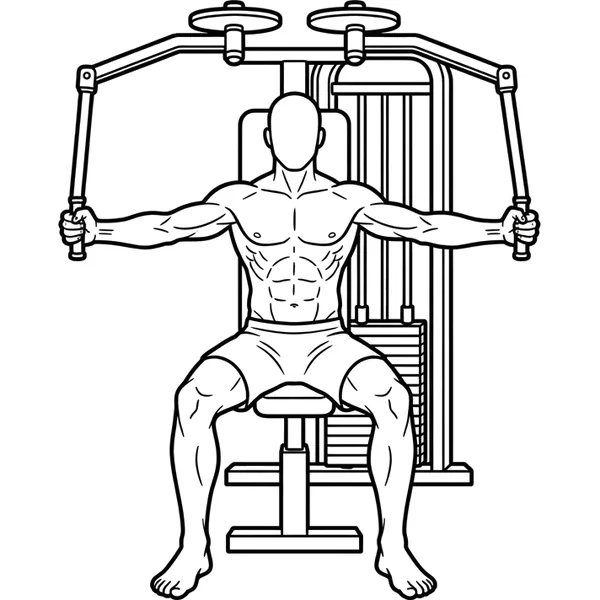
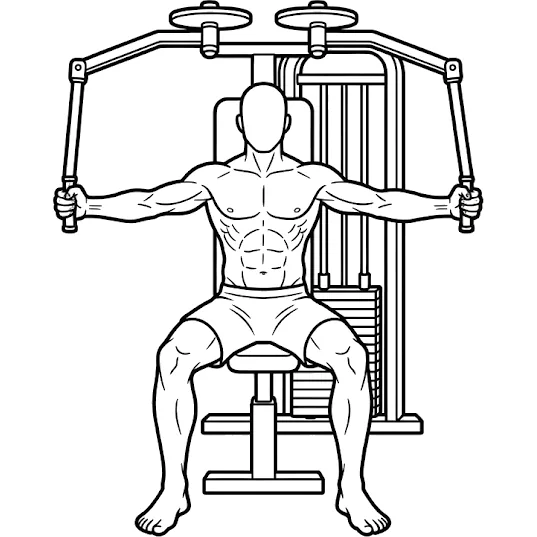
0.60.9: dibujos corregidos segun sus notas (teletransportes, prensa, dominadas, fondos, placas), variantes nuevas en el catalogo

diff --git a/web/js/catalogo.js b/web/js/catalogo.js
@@ -54,6 +54,7 @@ export const CATALOGO = [
   ej('Fondos en paralelas negativos', 'empuje', 'paralelas', ['triceps'], ['pecho', 'hombro'], corporal),
   ej('Press militar', 'empuje', 'barra', ['hombro'], ['triceps', 'trapecio']),
   ej('Press de hombro con mancuernas', 'empuje', 'mancuernas', ['hombro'], ['triceps']),
+  ej('Press de hombro a una mano', 'empuje', 'mancuernas', ['hombro'], ['triceps', 'oblicuos']),
   ej('Press Arnold', 'empuje', 'mancuernas', ['hombro'], ['triceps']),
   ej('Press de hombro en máquina', 'empuje', 'máquina', ['hombro'], ['triceps']),
   ej('Elevaciones laterales', 'empuje', 'mancuernas', ['hombro'], []),
@@ -119,6 +120,7 @@ export const CATALOGO = [
   ej('Prensa de piernas', 'pierna', 'máquina', ['cuadriceps'], ['gluteo']),
   ej('Peso muerto', 'pierna', 'barra', ['isquios', 'gluteo'], ['lumbar', 'trapecio', 'antebrazoFlexor']),
   ej('Peso muerto con mancuernas', 'pierna', 'mancuernas', ['isquios', 'gluteo'], ['lumbar', 'trapecio', 'antebrazoFlexor']),
+  ej('Peso muerto rumano con mancuernas', 'pierna', 'mancuernas', ['isquios'], ['gluteo', 'lumbar']),
   ej('Peso muerto sumo', 'pierna', 'barra', ['gluteo', 'aductores'], ['isquios', 'lumbar', 'cuadriceps']),
   ej('Peso muerto rumano', 'pierna', 'barra', ['isquios'], ['gluteo', 'lumbar']),
   ej('Buenos días', 'pierna', 'barra', ['isquios', 'lumbar'], ['gluteo']),

diff --git a/web/sw.js b/web/sw.js
@@ -7,12 +7,12 @@
 // Solo se ocupa del CÓDIGO de la app. Los datos del usuario nunca pasan por
 // aquí: viven en el dispositivo (IndexedDB) y en su Google Drive.
 
-const VERSION = '0.60.8';
+const VERSION = '0.60.9';
 const CACHE = `entreno-${VERSION}`;
 // Las imágenes van en un almacén aparte que NO se borra al actualizar la app:
 // así se ven sin conexión aunque haya salido una versión nueva.
 // Si cambian las imágenes, se sube el número y los móviles bajan las nuevas.
-const CACHE_IMAGENES = 'entreno-imagenes-18';  // el mismo nombre en app.js (guardarImagenesParaSinConexion)
+const CACHE_IMAGENES = 'entreno-imagenes-19';  // el mismo nombre en app.js (guardarImagenesParaSinConexion)
 
 const ARCHIVOS = [
   './',

diff --git a/web/js/app.js b/web/js/app.js
@@ -236,7 +236,7 @@ async function guardarImagenesParaSinConexion() {
     const capas = Object.entries(MUSCULOS).flatMap(([clave, m]) => m.vistas.map((v) => archivoCapa(clave, v)));
     const cuerpo = ['imagenes/musculos/cuerpo-delante.svg', 'imagenes/musculos/cuerpo-detras.svg'];
     // El mismo nombre que CACHE_IMAGENES en sw.js: si no, el service worker lo borra.
-    const cache = await caches.open('entreno-imagenes-18');
+    const cache = await caches.open('entreno-imagenes-19');
     for (const ruta of [...cuerpo, ...capas, ...mios]) {
       if (!(await cache.match(ruta, { ignoreSearch: true }))) {
         const r = await fetch(ruta).catch(() => null);

diff --git a/web/js/version.js b/web/js/version.js
@@ -1,3 +1,3 @@
 // Versión del código de la app. Se sube en cada publicación y debe coincidir
 // con VERSION en sw.js, que es lo que hace que los móviles se actualicen.
-export const VERSION_APP = '0.60.8';
+export const VERSION_APP = '0.60.9';

diff --git a/herramientas/imagenes_ia.py b/herramientas/imagenes_ia.py
@@ -184,7 +184,24 @@ def sin_suelo(im):
     return im
 
 
-def procesar(origen, modo="pies", espejo=False, solo=False):
+def centrar_en_barra(partes):
+    """Una sola barra de lado a lado: al partir, cada postura se queda con un trozo de distinto largo.
+    Se recorta cada postura a lo mismo a cada lado del centro de la figura, así la barra mide igual."""
+    centros, anchos = [], []
+    for im in partes:
+        tinta = mascara(im, 200)
+        x0, y0, x1, y1 = tinta.getbbox()
+        _, barra_y = ancla(im, "barra")
+        # El cuerpo, por debajo de la barra (la barra cruza de lado a lado y movería el centro).
+        cuerpo = tinta.crop((x0, round(barra_y) + 12, x1, y1)).getbbox()
+        cx = x0 + (cuerpo[0] + cuerpo[2]) / 2
+        centros.append(cx)
+        anchos.append(min(cx, im.width - cx))
+    medio = min(anchos)
+    return [im.crop((round(cx - medio), 0, round(cx + medio), im.height)) for im, cx in zip(partes, centros)]
+
+
+def procesar(origen, modo="pies", espejo=False, solo=False, invertir=False):
     nombre = origen.stem.split("-", 1)[1]
     if origen.stem.startswith("completo-"):
         # Un dibujo hecho por una persona que venía cortado, completado por la IA: va aparte del de la IA.
@@ -197,7 +214,10 @@ def procesar(origen, modo="pies", espejo=False, solo=False):
         if origen.stem.startswith("completo-"):
             # Sin suelo antes de partir: una línea de suelo de lado a lado no deja hueco entre las dos posturas.
             im = sin_suelo(im)
-        inicio, final = (recortar(sin_suelo(x) if origen.stem.startswith("completo-") else x, 0) for x in partir(im))
+        partes = partir(im)
+        if modo == "barra-centrada":
+            partes, modo = centrar_en_barra(partes), "barra"
+        inicio, final = (recortar(sin_suelo(x) if origen.stem.startswith("completo-") else x, 0) for x in partes)
         if solo:
             # Las dos figuras salieron casi iguales (pasa al alternar piernas): basta la primera, quieta.
             quieta(inicio, fija)
@@ -205,6 +225,9 @@ def procesar(origen, modo="pies", espejo=False, solo=False):
         if espejo:
             # La IA dibujó la segunda figura mirando al otro lado: se le da la vuelta.
             final = final.transpose(Image.FLIP_LEFT_RIGHT)
+        if invertir:
+            # Empieza por la postura final (las negativas: arriba y bajar despacio).
+            inicio, final = final, inicio
         animar([inicio, final], SALIDA / f"{nombre}.webp", modo)
         quieta(inicio, fija)
         return nombre, True
@@ -216,7 +239,7 @@ def leer_tabla():
     """De peticiones.json: nombre del dibujo → {"ejercicios": [...], "ancla": ...}."""
     if not PETICIONES.exists():
         return {}
-    return {p["slug"]: {"ejercicios": [p["ejercicio"], *p.get("tambien", [])], "ancla": p.get("ancla", "pies"), "espejo": p.get("espejo", False), "solo": p.get("solo", False), "usar": p.get("usar"), "sinAlias": p.get("sinAlias", False)}
+    return {p["slug"]: {"ejercicios": [p["ejercicio"], *p.get("tambien", [])], "ancla": p.get("ancla", "pies"), "espejo": p.get("espejo", False), "solo": p.get("solo", False), "usar": p.get("usar"), "sinAlias": p.get("sinAlias", False), "invertir": p.get("invertir", False)}
             for p in json.loads(PETICIONES.read_text(encoding="utf8"))}
 
 
@@ -227,12 +250,20 @@ def ejercicios_de(entrada):
     return entrada if isinstance(entrada, list) else entrada.get("ejercicios", [])
 
 
+# Ejercicios que se aguantan quietos: dibujo sin animar (Dan, 22-10-2026: «en estática que no se mueva»).
+QUIETOS = {"Plancha lateral": "imagenes/ejercicios/anim/plancha-lateral-quieta.webp"}
+
+
 # Completados que no se apoyan en el suelo: se encajan por lo que no se mueve (las barras de los fondos).
 ANCLA_COMPLETO = {"fondos-asistidos": "encajar", "fondos-de-triceps-ek": "encajar", "fondos-en-paralelas-negativos": "encajar"}
 
 
 # El dibujo de antes de «Fondos asistidos» se ve como fondos en paralelas: Dan lo quiere para «Fondos de pecho».
-OTRO_DIBUJO = {"Fondos de pecho": "Fondos asistidos"}
+# Y los que eran dos variantes (comparativa del 22-10-2026): el dibujo de antes pasa a la otra variante.
+OTRO_DIBUJO = {"Fondos de pecho": "Fondos asistidos",
+               "Encogimientos de trapecio con barra": "Encogimientos de trapecio",
+               "Press de hombro a una mano": "Press de hombro con mancuernas",
+               "Peso muerto rumano con mancuernas": "Peso muerto con mancuernas"}
 
 
 def hecho_por_persona(datos):
@@ -292,6 +323,9 @@ def apuntar(hechos):
                 ejercicios[ej] = {**{k: v for k, v in datos.items() if k not in ("estatica", "animada")},
                                   "archivo": f"imagenes/ejercicios/ia/{nombre}.webp", "estatica": f"imagenes/ejercicios/ia/{nombre}-quieta.webp",
                                   "animada": animada, "completadoCon": "Gemini" if origen == "gemini" else "ChatGPT"}
+    for ej, archivo in QUIETOS.items():
+        if ej in ejercicios:
+            ejercicios[ej] = {**ejercicios[ej], "archivo": archivo, "estatica": archivo, "animada": False}
     CREDITOS.write_text(json.dumps(creditos, ensure_ascii=False, indent=1), encoding="utf8")
 
 
@@ -313,7 +347,7 @@ def main():
                 # Las dos posturas de un dibujo completado coinciden casi enteras: se encajan donde más líneas cuadran.
                 modo = ANCLA_COMPLETO.get(nombre, "encajar-suelo")
             opciones = entrada if isinstance(entrada, dict) else {}
-            nombre, animada = procesar(origen, modo, bool(opciones.get("espejo")), bool(opciones.get("solo")))
+            nombre, animada = procesar(origen, modo, bool(opciones.get("espejo")), bool(opciones.get("solo")), bool(opciones.get("invertir")))
             hechos.append((nombre, animada, carpeta.name))
             print(("animada " if animada else "quieta  ") + nombre)
     apuntar(hechos)

diff --git a/herramientas/reencajar.py b/herramientas/reencajar.py
@@ -1,0 +1,84 @@
+"""Vuelve a encajar las dos posturas de un dibujo animado que «se teletransporta».
+
+Toma los dos fotogramas del WebP ya hecho (web/imagenes/ejercicios/anim/), busca en
+un margen amplio el desplazamiento con el que más coinciden las líneas de la parte
+que no se mueve (`zona`, en fracciones de la caja del dibujo de la primera postura)
+y lo reescribe en el mismo archivo. No toca creditos.json.
+
+Uso: python herramientas/reencajar.py [nombre]
+"""
+import sys
+from pathlib import Path
+
+from PIL import Image, ImageChops, ImageFilter, ImageSequence
+
+RAIZ = Path(__file__).resolve().parent.parent
+ANIM = RAIZ / "web" / "imagenes" / "ejercicios" / "anim"
+
+# Revisión de Dan (22-10-2026): la máquina o el cuerpo saltaban de sitio entre posturas.
+# zona = (izquierda, arriba, derecha, abajo) de la parte quieta.
+REENCAJAR = {
+    "abductores-en-maquina": {"zona": (0.3, 0.0, 0.8, 0.35)},    # respaldo y cabeza
+    "aductores-en-maquina": {"zona": (0.3, 0.0, 0.8, 0.35)},
+    "elevaciones-de-piernas": {"mover": (-195, 85)},             # tumbado: cabeza sobre cabeza (medido a ojo)
+    "fondos-en-banco": {"zona": (0.0, 0.3, 0.25, 1.0)},          # el cajón y los talones
+    "prensa-de-piernas": {"mover": (60, -60)},                   # el respaldo y la cabeza quietos;        # Dan: la persona quieta, se mueve la máquina
+}
+
+
+def tinta(im, umbral=200):
+    return im.convert("L").point(lambda v: 255 if v < umbral else 0)
+
+
+def reencajar(nombre, zona=None, rango=50, escala=0.25, mover=None):
+    archivo = ANIM / f"{nombre}.webp"
+    fuente = Image.open(archivo)
+    marcos = [f.convert("RGB") for f in ImageSequence.Iterator(fuente)]
+    duraciones = [f.info.get("duration", 900) for f in ImageSequence.Iterator(Image.open(archivo))]
+    if len(marcos) < 2:
+        return False
+    a, b = marcos[:2]
+    caja = tinta(a).getbbox()
+    x0, y0, x1, y1 = caja
+    w, h = x1 - x0, y1 - y0
+    # Fracciones de la caja del dibujo o, si pasan de 1, píxeles del fotograma.
+    zona = zona or (0, 0, 1, 1)
+    z = tuple(zona) if max(zona) > 1 else (round(x0 + zona[0] * w), round(y0 + zona[1] * h), round(x0 + zona[2] * w), round(y0 + zona[3] * h))
+    # Líneas engordadas: la coincidencia sube poco a poco al acercarse, no solo al clavarla.
+    gorda = lambda m: m.filter(ImageFilter.MaxFilter(5))
+    pa = gorda(tinta(a).crop(z).resize((max(1, round((z[2] - z[0]) * escala)), max(1, round((z[3] - z[1]) * escala)))))
+    pb = gorda(tinta(b).resize((round(b.width * escala), round(b.height * escala))))
+    ox, oy = round(z[0] * escala), round(z[1] * escala)
+    mejor, mejor_d = -1, (0, 0)
+    if mover:
+        # Dibujos demasiado distintos para encajarlos solos: el desplazamiento se mide a ojo.
+        rango, mejor_d = -1, (mover[0] * escala, mover[1] * escala)
+    for dy in range(-rango, rango + 1):
+        for dx in range(-rango, rango + 1):
+            trozo = pb.crop((ox - dx, oy - dy, ox - dx + pa.width, oy - dy + pa.height))
+            n = ImageChops.multiply(pa, trozo).histogram()[255]
+            if n > mejor:
+                mejor, mejor_d = n, (dx, dy)
+    dx, dy = round(mejor_d[0] / escala), round(mejor_d[1] / escala)
+    # b se pega desplazada (dx, dy); el lienzo abarca las dos sin cortar nada.
+    cb = tinta(b).getbbox()
+    izq = min(caja[0], cb[0] + dx); arr = min(caja[1], cb[1] + dy)
+    der = max(caja[2], cb[2] + dx); aba = max(caja[3], cb[3] + dy)
+    margen = 24
+    lado = max(der - izq, aba - arr) + 2 * margen
+    cx, cy = (izq + der) / 2, (arr + aba) / 2
+    salida = []
+    for im, (mx, my) in ((a, (0, 0)), (b, (dx, dy))):
+        lienzo = Image.new("RGB", (lado, lado), "white")
+        lienzo.paste(im, (round(lado / 2 - cx + mx), round(lado / 2 - cy + my)))
+        salida.append(lienzo.resize((600, 600), Image.LANCZOS) if lado > 600 else lienzo)
+    salida[0].save(archivo, "WEBP", save_all=True, append_images=salida[1:], duration=duraciones[:2], loop=0, quality=82, method=6)
+    print(f"{nombre}: desplazada {dx}, {dy}")
+    return True
+
+
+if __name__ == "__main__":
+    filtro = sys.argv[1] if len(sys.argv) > 1 else None
+    for nombre, op in REENCAJAR.items():
+        if not filtro or filtro == nombre:
+            reencajar(nombre, op.get("zona"), mover=op.get("mover"))

diff --git a/CLAUDE.md b/CLAUDE.md
@@ -1125,3 +1125,12 @@ fase), tras probar la A.
   (`ANCLA_COMPLETO`). Al procesar un solo dibujo, `OTRO_DIBUJO` deshace los completados de otros:
   antes de publicar, el procesado entero. Almacén `entreno-imagenes-18`. Página de comparación con
   correcciones de un toque y «Borrar el otro» marcado por defecto.
+- 0.60.9 (22-10-2026): sus correcciones. `herramientas/reencajar.py` reencaja dibujos de Everkinetic
+  que «se teletransportaban» (zona quieta o desplazamiento medido a ojo, `mover`); la prensa, con la
+  persona quieta (lo pidió así). Arreglos con Gemini adjuntando el dibujo y pidiendo la corrección
+  (originales en `imagenes-ia/arreglos/`, fuera de Git): dominadas (y negativas = la dominada al revés,
+  `"invertir"` en peticiones.json), supinas (`"ancla": "barra-centrada"`), fondos de tríceps,
+  flexiones en pica, aperturas (placas), extensión de tríceps en máquina; nuevos: elevaciones
+  laterales en polea, fondos asistidos. `QUIETOS` (plancha lateral sin animar). Variantes nuevas en el
+  catálogo: «Press de hombro a una mano» y «Peso muerto rumano con mancuernas» (el dibujo de antes vía
+  `OTRO_DIBUJO`). Su elección en Design: estilo A (docs/pendientes-design.md). Almacén `entreno-imagenes-19`.

diff --git a/docs/pendientes-design.md b/docs/pendientes-design.md
@@ -60,3 +60,12 @@ Para que a Design no le pase lo mismo.
   negros puros de fondo).
 - La cebra que no salía era otra cosa: «Ver las series» no es una tabla sino
   una lista de barras, y la cebra solo se había puesto en las tablas.
+
+## Pantallas clave (22-10-2026)
+
+Lienzo de Design con Hoy y el entreno en dos estilos (https://claude.ai/artifact/A6Q3i9FGZcwg949bXZGnWi).
+Dan eligió el **A («ordenado»)**: lo de ahora más limpio. De ahí sale para la app: en Hoy, tarjeta
+«Hoy te toca» con el día, la lista corta de ejercicios con su objetivo y «Empezar» a todo el ancho;
+recuperación en barras finas por músculo con «¿Voy hoy?» debajo; últimos entrenamientos en dos filas.
+En el entreno: sugerencia «Hoy 112,5 kg × 4 dejando 2» con filo, casillas grandes y el descanso en una
+banda de tinta con −30 s / +30 s. Falta pasarlo al código cuando él lo pida.

diff --git a/imagenes-ia/pendientes.md b/imagenes-ia/pendientes.md
@@ -75,3 +75,4 @@ Pendiente de lo que pidió:
 - Rehacer: elevaciones laterales en polea, flexiones en pino (la foto de referencia mostraba dos vistas, no
   dos fases), fondos asistidos (el de antes es de paralelas).
 - Línea gruesa como la de Everkinetic en los de IA (crunch, elevaciones laterales).
+- flexiones-en-pino (22-10, con la pared): en la segunda fase el cuerpo se inclina y los pies resbalan por la pared, y la pared cambia de distancia. Descartado.
